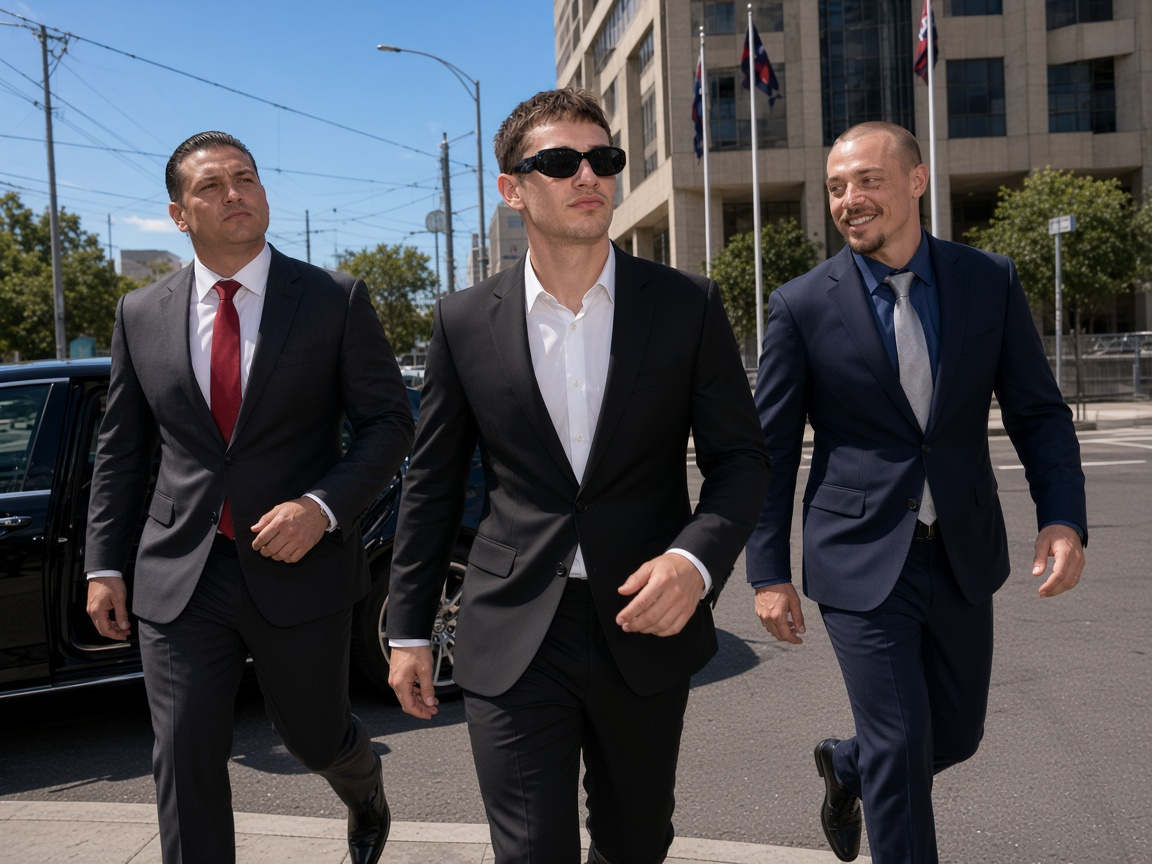
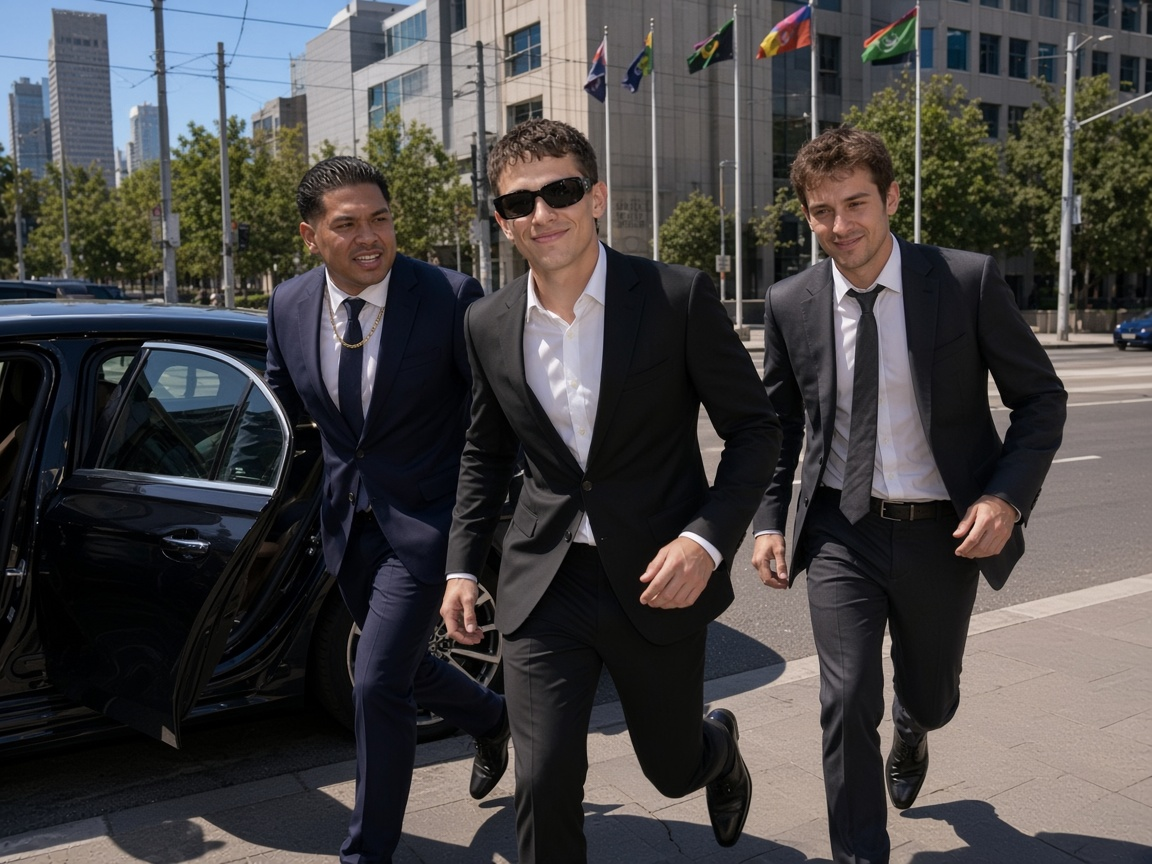
Batch 019 complete: 50 Magistrates Court exit paparazzi shots.
IDs 1271–1320 in docs/iphone/batch-019-magistrates for phone viewing.

diff --git a/docs/iphone/batch-019-magistrates/PHONE_VIEW.md b/docs/iphone/batch-019-magistrates/PHONE_VIEW.md
@@ -2,7 +2,7 @@
 
 [Index](./INDEX.md)
 
-37 / 50 shots ready.
+50 / 50 shots ready.
 
 ## 1271
 
@@ -40,6 +40,10 @@
 
 ![1279](./shots/lewis-mag-court-1279.jpg)
 
+## 1280
+
+![1280](./shots/lewis-mag-court-1280.jpg)
+
 ## 1281
 
 ![1281](./shots/lewis-mag-court-1281.jpg)
@@ -63,6 +67,22 @@
 ## 1286
 
 ![1286](./shots/lewis-mag-court-1286.jpg)
+
+## 1287
+
+![1287](./shots/lewis-mag-court-1287.jpg)
+
+## 1288
+
+![1288](./shots/lewis-mag-court-1288.jpg)
+
+## 1289
+
+![1289](./shots/lewis-mag-court-1289.jpg)
+
+## 1290
+
+![1290](./shots/lewis-mag-court-1290.jpg)
 
 ## 1291
 
@@ -96,6 +116,14 @@
 
 ![1298](./shots/lewis-mag-court-1298.jpg)
 
+## 1299
+
+![1299](./shots/lewis-mag-court-1299.jpg)
+
+## 1300
+
+![1300](./shots/lewis-mag-court-1300.jpg)
+
 ## 1301
 
 ![1301](./shots/lewis-mag-court-1301.jpg)
@@ -124,6 +152,18 @@
 
 ![1307](./shots/lewis-mag-court-1307.jpg)
 
+## 1308
+
+![1308](./shots/lewis-mag-court-1308.jpg)
+
+## 1309
+
+![1309](./shots/lewis-mag-court-1309.jpg)
+
+## 1310
+
+![1310](./shots/lewis-mag-court-1310.jpg)
+
 ## 1311
 
 ![1311](./shots/lewis-mag-court-1311.jpg)
@@ -151,4 +191,16 @@
 ## 1317
 
 ![1317](./shots/lewis-mag-court-1317.jpg)
+
+## 1318
+
+![1318](./shots/lewis-mag-court-1318.jpg)
+
+## 1319
+
+![1319](./shots/lewis-mag-court-1319.jpg)
+
+## 1320
+
+![1320](./shots/lewis-mag-court-1320.jpg)
 

diff --git a/docs/iphone/batch-019-magistrates/INDEX.md b/docs/iphone/batch-019-magistrates/INDEX.md
@@ -1,6 +1,6 @@
 # Batch 019 — Melbourne Magistrates Court paparazzi
 
-Exit paparazzi vibe around William St / La Trobe St (Magistrates Court precinct only).
+50 completed shots. Exit paparazzi vibe around William St / La Trobe St (Magistrates Court precinct only).
 
 [PHONE_VIEW (all shots)](./PHONE_VIEW.md)
 
